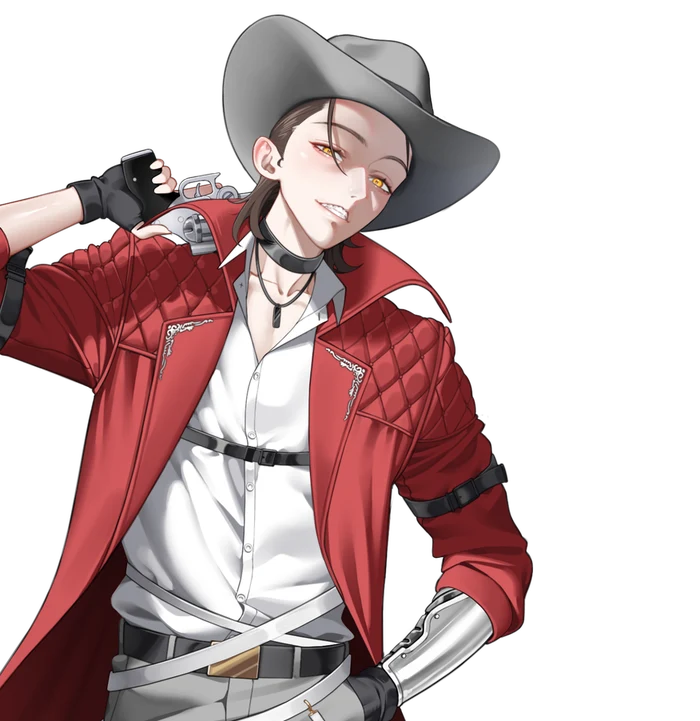
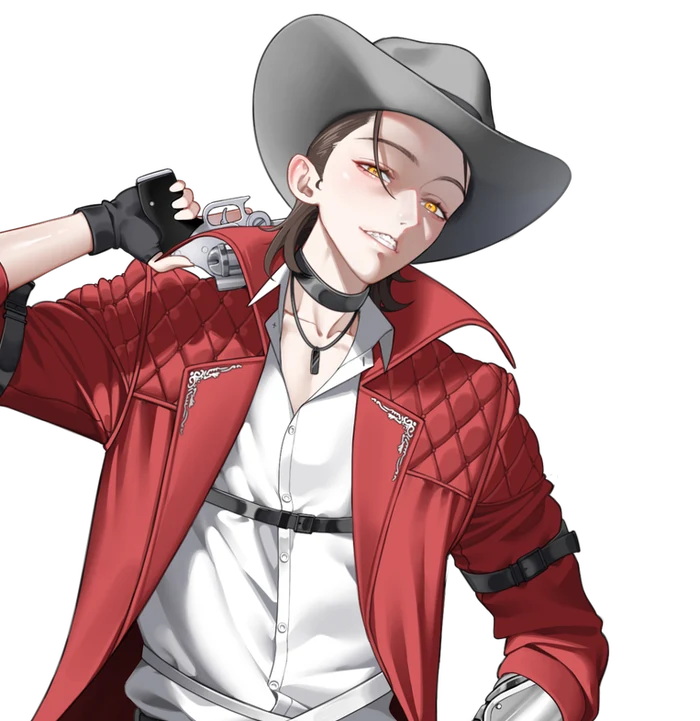
Jack close-up: zoom in, shift right
Claude-Session: https://claude.ai/code/session_0182ETGqkY6VZC2ACV9rE9Mb

diff --git a/index.html b/index.html
@@ -1030,7 +1030,7 @@ var TALENTS = [
   { id:'v7-poya', img:'talent-v7-poya.webp', face:'talent-v7-poya-face.webp?v=4', halves:['talent-v7-poya-half.webp?v=4'], card:'talent-v7-poya-half.webp?v=4', name:'Chiipika Poya', short:'Poya', ini:'CP', type:'VTuber', aff:{name:'Virtual 7', logo:'logos/virtual7.png'}, langs:['en'], color:'#ECF4D6', tags:['#FreeTalk', '#Gaming', '#Drawing'], works:['promo', 'review', 'dub', 'collab'], links:[['YouTube',404,'https://www.youtube.com/@ChiipikaPoyaVZ'],['X',null,'https://x.com/chiipikapoya_vz'],['TikTok',null,'https://www.tiktok.com/@chiipikapoya_vz'],['Twitch',null,'https://www.twitch.tv/ChiipikaPoya_VZ']] },
   { id:'v7-coralyn', img:'talent-v7-coralyn.webp', face:'talent-v7-coralyn-face.webp?v=4', halves:['talent-v7-coralyn-half.webp?v=4'], card:'talent-v7-coralyn-half.webp?v=4', name:'Coralyn Mare', short:'Coralyn', ini:'CM', type:'VTuber', aff:{name:'Virtual 7', logo:'logos/virtual7.png'}, langs:['th', 'en'], color:'#DFEFFA', tags:['#FreeTalk', '#Gaming', '#Singing'], works:['promo', 'review', 'dub', 'collab', 'cover'], links:[['YouTube',338,'https://www.youtube.com/@CoralynMareVZ'],['X',null,'https://x.com/coralynmare_vz'],['TikTok',null,'https://www.tiktok.com/@coralynmare_vz'],['Twitch',null,'https://www.twitch.tv/coralynmare_vz']] },
   { id:'v7-flynn', img:'talent-v7-flynn.webp', face:'talent-v7-flynn-face.webp?v=4', halves:['talent-v7-flynn-half.webp?v=4'], card:'talent-v7-flynn-half.webp?v=4', name:'Flynn Mycorrin', short:'Flynn', ini:'FM', type:'VTuber', aff:{name:'Virtual 7', logo:'logos/virtual7.png'}, langs:['en', 'lt'], color:'#ECE7D8', tags:['#FreeTalk', '#Gaming'], works:['promo', 'review', 'dub', 'collab'], links:[['YouTube',237,'https://www.youtube.com/@FlynnMycorrinVZ'],['X',null,'https://x.com/FlynnMyco_VZ'],['TikTok',null,'https://www.tiktok.com/@flynnmycorrin_vz'],['Twitch',null,'https://www.twitch.tv/flynnmycorrin_vz']] },
-  { id:'v7-jack', img:'talent-v7-jack.webp', face:'talent-v7-jack-face.webp?v=5', halves:['talent-v7-jack-half.webp?v=4'], card:'talent-v7-jack-half.webp?v=4', name:'Jack Valentine', short:'Jack', ini:'JV', type:'VTuber', aff:{name:'Virtual 7', logo:'logos/virtual7.png'}, langs:['en'], color:'#F2DEDE', tags:['#FreeTalk', '#Gaming'], works:['promo', 'review', 'dub', 'collab'], links:[['YouTube',277,'https://www.youtube.com/@JackValentineVZ'],['X',null,'https://x.com/JackV_VZ'],['TikTok',null,'https://www.tiktok.com/@jackvalentine_vz'],['Twitch',null,'https://www.twitch.tv/jackvalentine_vz']] },
+  { id:'v7-jack', img:'talent-v7-jack.webp', face:'talent-v7-jack-face.webp?v=5', halves:['talent-v7-jack-half.webp?v=5'], card:'talent-v7-jack-half.webp?v=5', name:'Jack Valentine', short:'Jack', ini:'JV', type:'VTuber', aff:{name:'Virtual 7', logo:'logos/virtual7.png'}, langs:['en'], color:'#F2DEDE', tags:['#FreeTalk', '#Gaming'], works:['promo', 'review', 'dub', 'collab'], links:[['YouTube',277,'https://www.youtube.com/@JackValentineVZ'],['X',null,'https://x.com/JackV_VZ'],['TikTok',null,'https://www.tiktok.com/@jackvalentine_vz'],['Twitch',null,'https://www.twitch.tv/jackvalentine_vz']] },
   { id:'v7-loafty', img:'talent-v7-loafty.webp', face:'talent-v7-loafty-face.webp?v=4', halves:['talent-v7-loafty-half.webp?v=4'], card:'talent-v7-loafty-half.webp?v=4', name:'Lovely Loafty', short:'Loafty', ini:'LL', type:'VTuber', aff:{name:'Virtual 7', logo:'logos/virtual7.png'}, langs:['th', 'en'], color:'#FBEBD6', tags:['#FreeTalk', '#Gaming'], works:['promo', 'review', 'dub', 'collab'], links:[['YouTube',549,'https://www.youtube.com/@LovelyLoaftyVZ'],['X',null,'https://x.com/LovelyLoafty_VZ'],['TikTok',null,'https://www.tiktok.com/@loafty_vz']] },
   { id:'v7-raz', img:'talent-v7-raz.webp', face:'talent-v7-raz-face.webp?v=4', halves:['talent-v7-raz-half.webp?v=4'], card:'talent-v7-raz-half.webp?v=4', name:'Raz Tablo', short:'Raz', ini:'RT', type:'VTuber', aff:{name:'Virtual 7', logo:'logos/virtual7.png'}, langs:['en', 'ph'], color:'#E6E1F2', tags:['#FreeTalk', '#Gaming'], works:['promo', 'review', 'dub', 'collab'], links:[['YouTube',271,'https://www.youtube.com/@RazTabloVZ'],['X',null,'https://x.com/RazTablo_VZ'],['TikTok',null,'https://www.tiktok.com/@raztablo_vz']] },
   { id:'v7-vai', img:'talent-v7-vai.webp', face:'talent-v7-vai-face.webp?v=4', halves:['talent-v7-vai-half.webp?v=4'], card:'talent-v7-vai-half.webp?v=4', name:'Vai Valentine', short:'Vai', ini:'VV', type:'VTuber', aff:{name:'Virtual 7', logo:'logos/virtual7.png'}, langs:['en'], color:'#F2E0EA', tags:['#FreeTalk', '#Gaming', '#Singing'], works:['promo', 'review', 'dub', 'collab', 'cover'], links:[['YouTube',438,'https://www.youtube.com/@VaiValentineVZ'],['X',null,'https://x.com/VaiValentine_VZ'],['TikTok',null,'https://www.tiktok.com/@vaivalentine_vz'],['Twitch',null,'https://www.twitch.tv/vaivalentine_vz']] },
